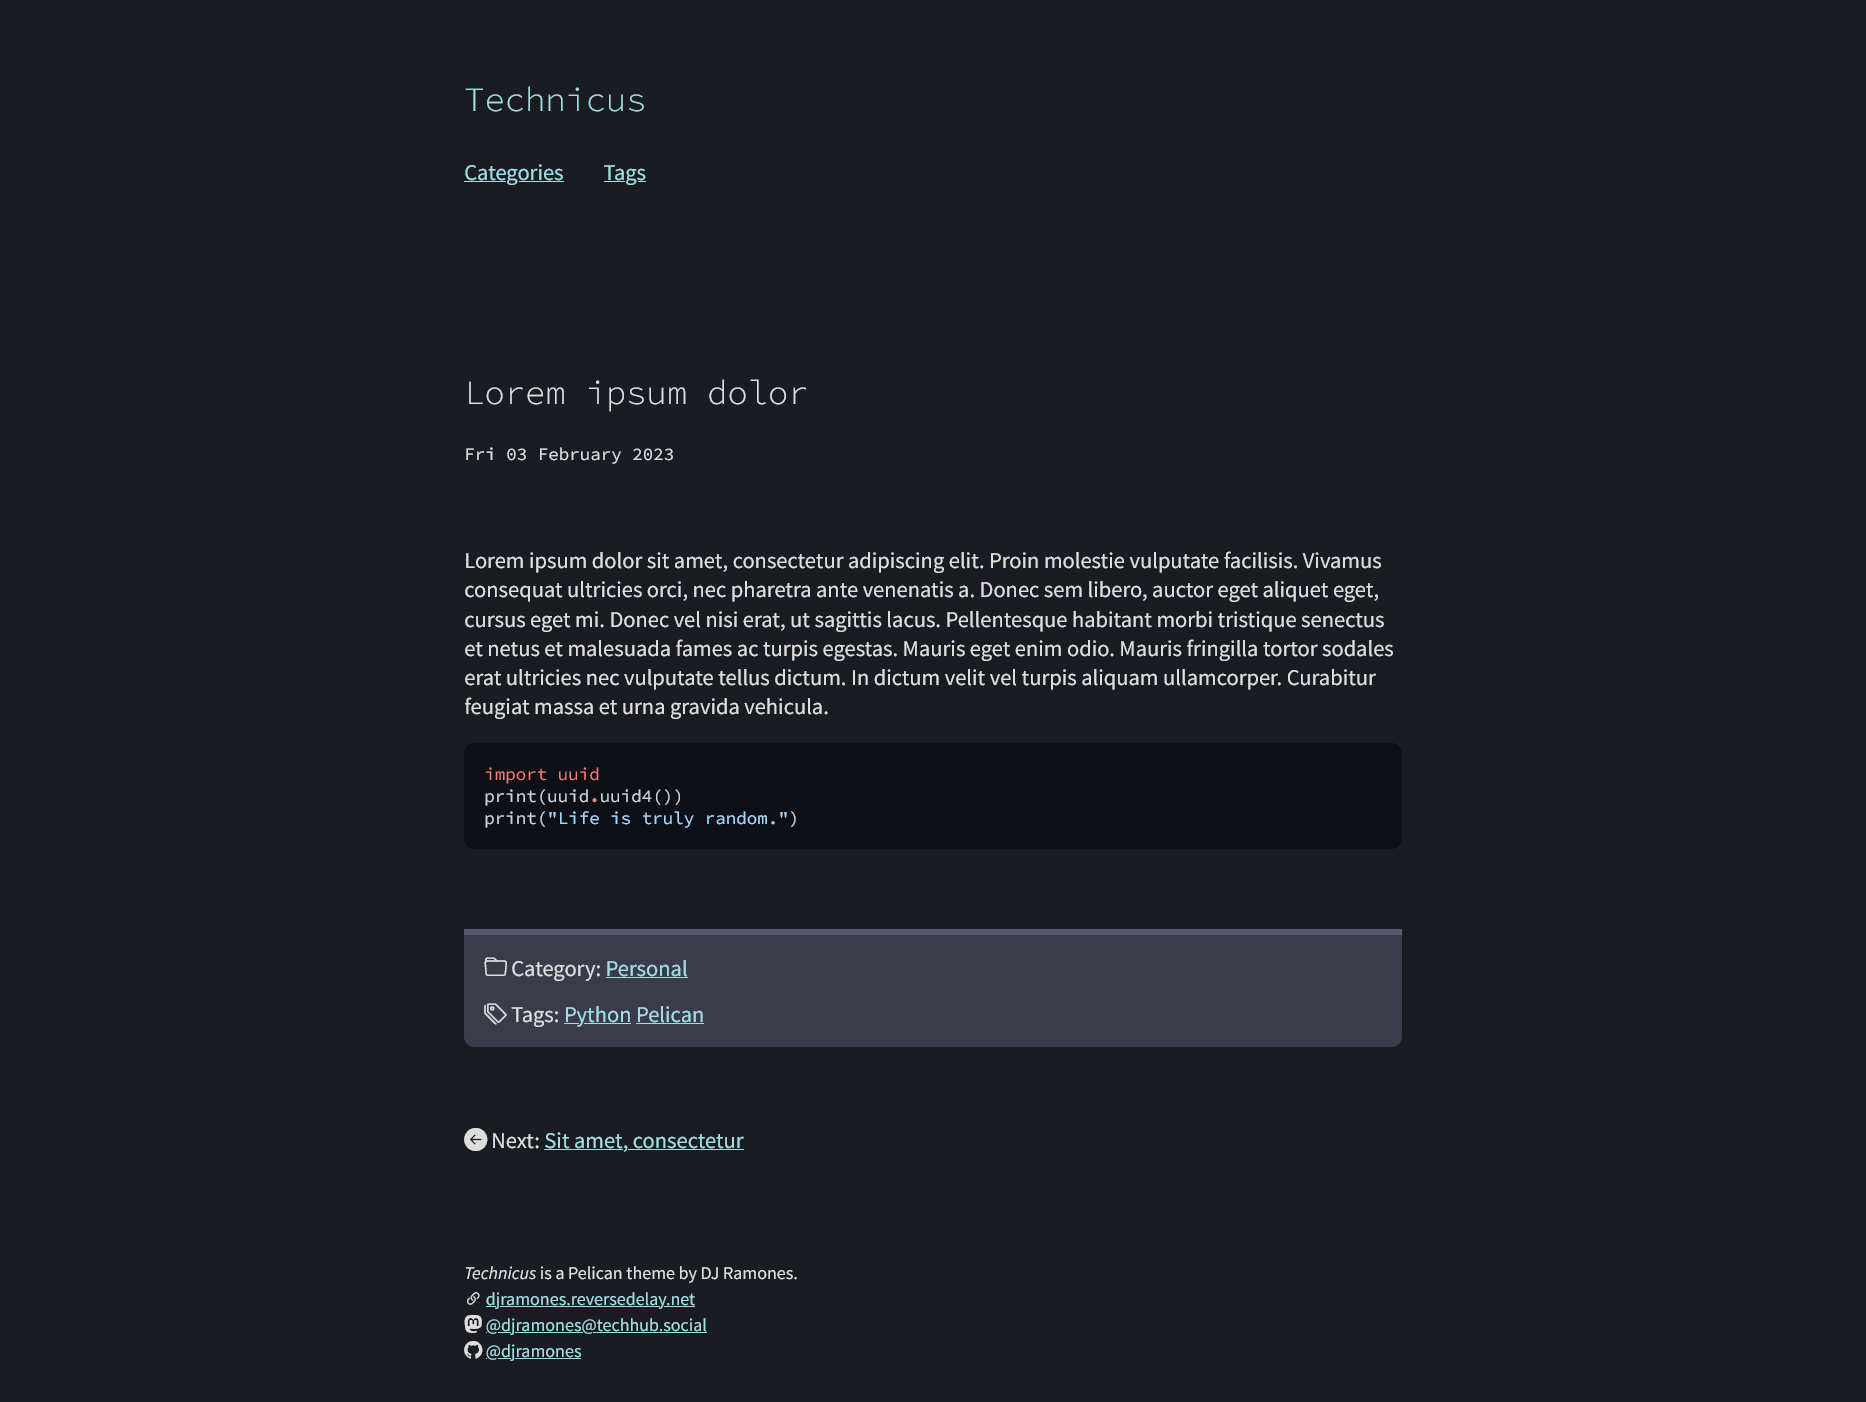
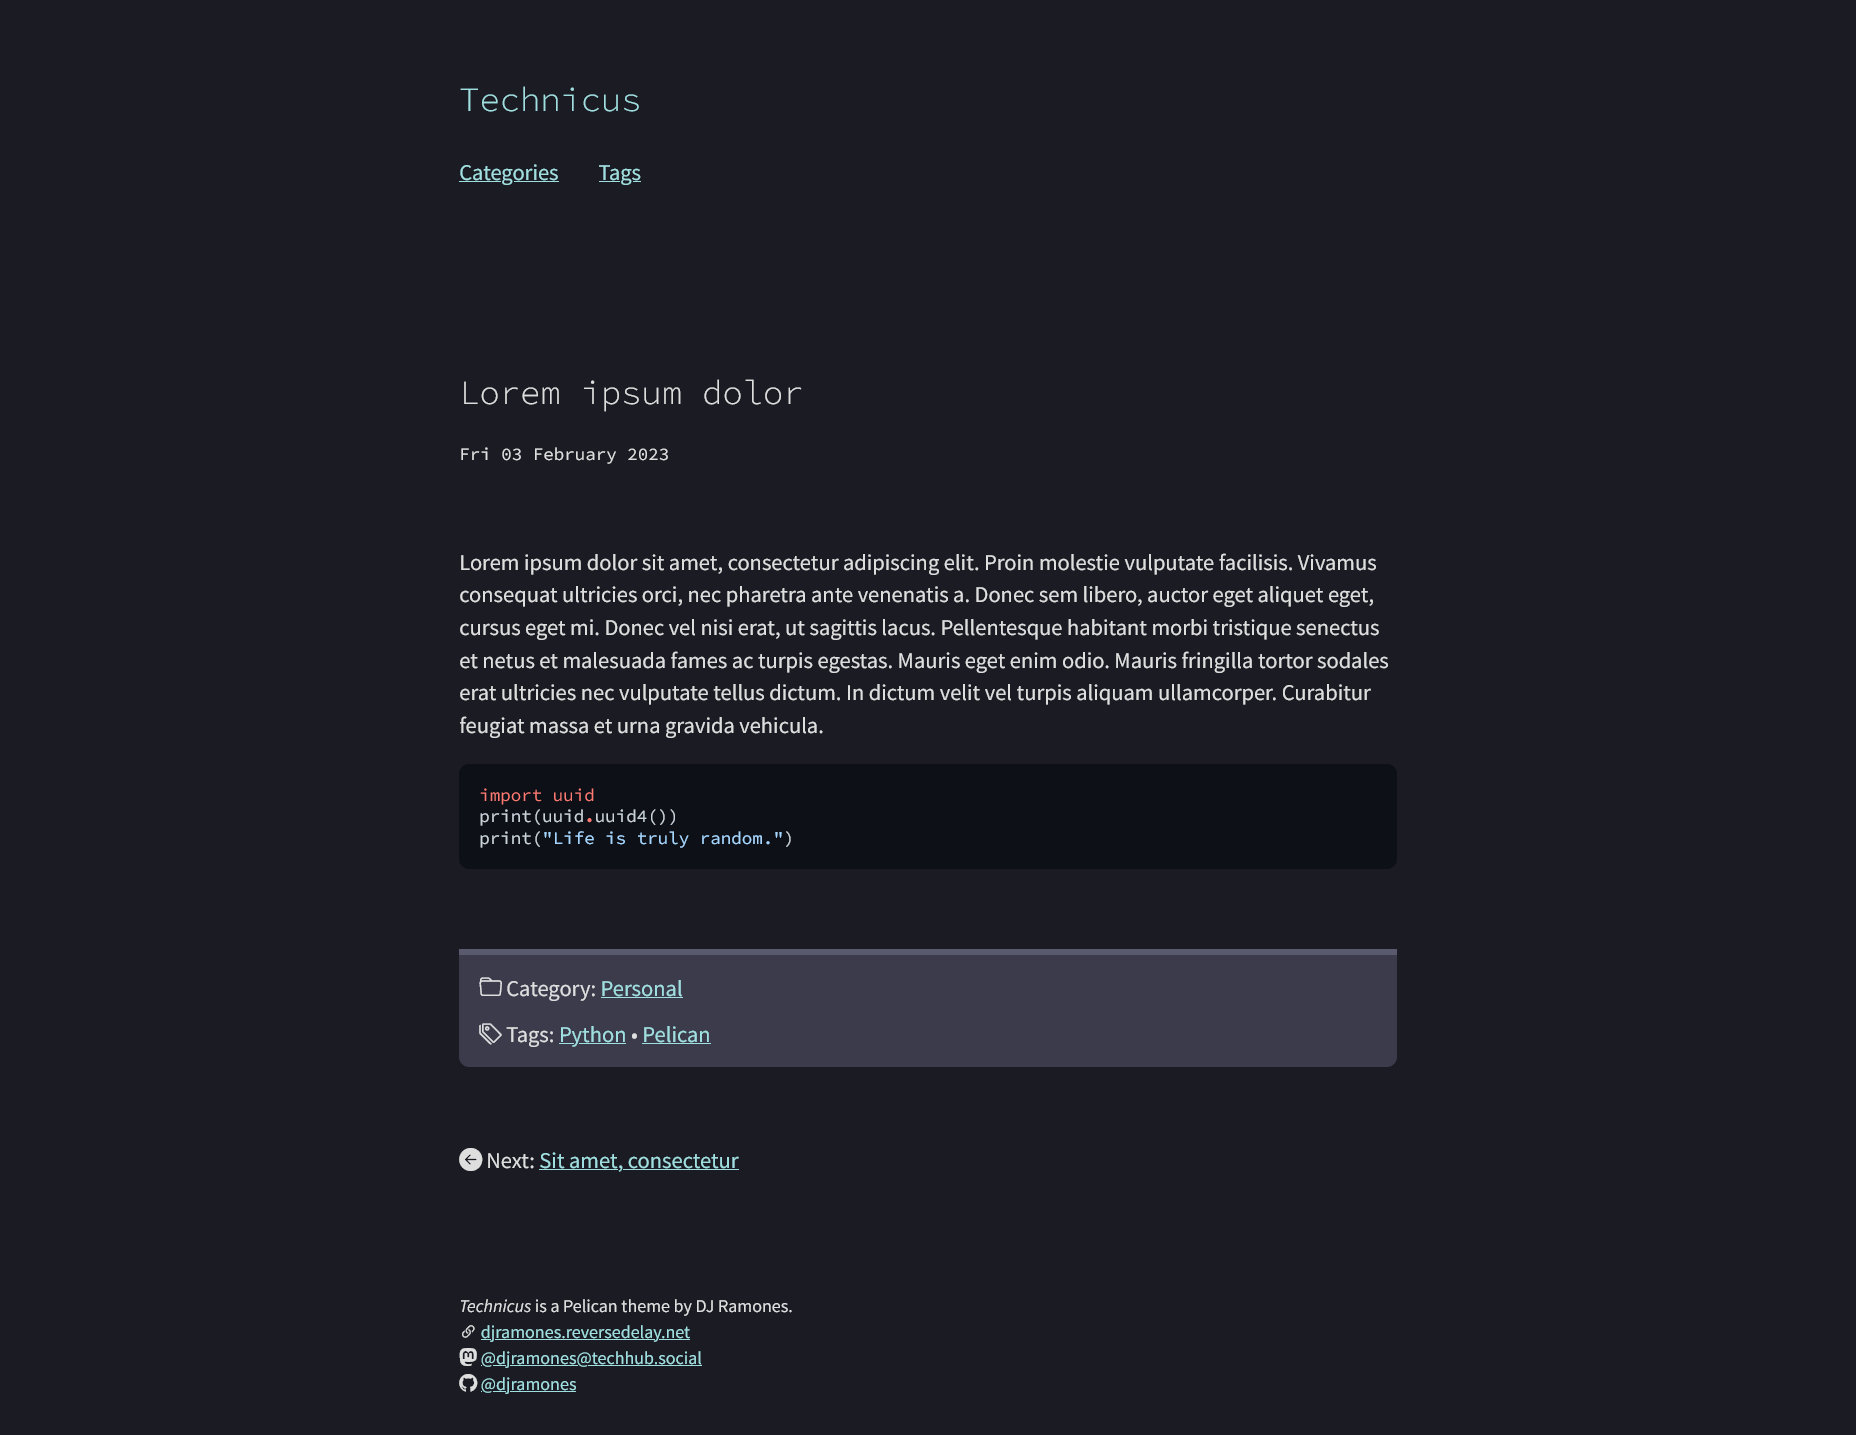
Increase body text line height
The previous line height made body paragraphs too dense and
created too much contrast with the generous amounts of negative
space around them. Increasing the line height makes for a
gentler, roomier, more elegant look.

diff --git a/technicus/static/css/style.css b/technicus/static/css/style.css
@@ -88,7 +88,7 @@ time, pre, code,
 .preview-article-content,
 .article-content,
 .page-content {
-    line-height: 1.3;
+    line-height: 1.45;
 }
 main ul, main ol {
     padding-left: 1.5rem;
